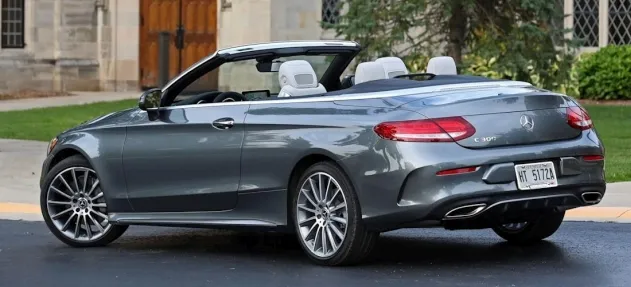
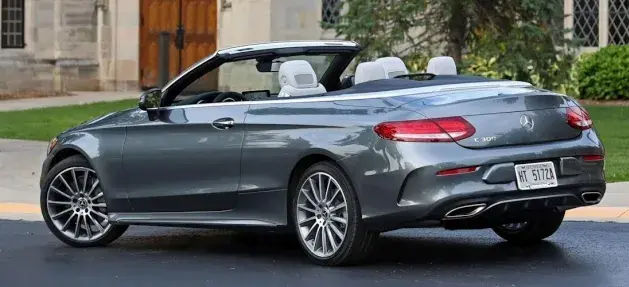
246

diff --git a/pic/ja_mb_img_clc.html b/pic/ja_mb_img_clc.html
@@ -458,7 +458,7 @@
 						<h4 class="displayNone">Cabriolet</h4>
 						<a href="full/clc/a205.jpg"><img loading="lazy" src="style/clc/a205.webp" alt="Mercedes,A205,Cクラス,cabriolet" width="1210" height="756"></a><br>
 						<a href="full/clc/a205_f.jpg"><img loading="lazy" src="style/clc/a205_f.webp" alt="メルセデス,A205,Cクラス,カブリオレ,フロント" width="575" height="287"></a>
-						<a href="full/clc/a205_r.jpg"><img loading="lazy" src="style/clc/a205_r.webp" alt="メルセデス,A205,Cクラス,カブリオレ,リヤ" width="631" height="287"></a>
+						<a href="full/clc/a205_r.jpg"><img loading="lazy" src="style/clc/a205_r.webp" alt="メルセデス,A205,Cクラス,カブリオレ,リヤ" width="629" height="287"></a>
 						<h5>ボディサイズ</h5>
 						<a href="full/clc/a205_a1.jpg"><img loading="lazy" src="style/clc/a205_a1.webp" alt="Mercedes,A205,Cクラス,cabriolet,寸法図" width="384" height="340"></a>
 						<a href="full/clc/a205_a2.jpg"><img loading="lazy" src="style/clc/a205_a2.webp" alt="Mercedes,A205,Cクラス,cabriolet,寸法図" width="823" height="340"></a>

diff --git a/pic/mb_img_clc.html b/pic/mb_img_clc.html
@@ -458,7 +458,7 @@
 						<h4 class="displayNone">Cabriolet</h4>
 						<a href="full/clc/a205.jpg"><img loading="lazy" src="style/clc/a205.webp" alt="Mercedes,A205,C-klasse,cabriolet" width="1210" height="756"></a><br>
 						<a href="full/clc/a205_f.jpg"><img loading="lazy" src="style/clc/a205_f.webp" alt="Mercedes,A205,C-klasse,cabriolet,Vorderansicht" width="575" height="287"></a>
-						<a href="full/clc/a205_r.jpg"><img loading="lazy" src="style/clc/a205_r.webp" alt="Mercedes,A205,C-klasse,cabriolet,Rückansicht" width="631" height="287"></a>
+						<a href="full/clc/a205_r.jpg"><img loading="lazy" src="style/clc/a205_r.webp" alt="Mercedes,A205,C-klasse,cabriolet,Rückansicht" width="629" height="287"></a>
 						<h5>Abmessungen</h5>
 						<a href="full/clc/a205_a1.jpg"><img loading="lazy" src="style/clc/a205_a1.webp" alt="Mercedes,A205,C-klasse,cabriolet,Maße" width="384" height="340"></a>
 						<a href="full/clc/a205_a2.jpg"><img loading="lazy" src="style/clc/a205_a2.webp" alt="Mercedes,A205,C-klasse,cabriolet,Maße" width="823" height="340"></a>

diff --git a/pic/en_mb_img_clc.html b/pic/en_mb_img_clc.html
@@ -458,7 +458,7 @@
 						<h4 class="displayNone">Cabriolet</h4>
 						<a href="full/clc/a205.jpg"><img loading="lazy" src="style/clc/a205.webp" alt="Mercedes,A205,C-class,cabriolet" width="1210" height="756"></a><br>
 						<a href="full/clc/a205_f.jpg"><img loading="lazy" src="style/clc/a205_f.webp" alt="Mercedes,A205,C-class,cabriolet,Front view" width="575" height="287"></a>
-						<a href="full/clc/a205_r.jpg"><img loading="lazy" src="style/clc/a205_r.webp" alt="Mercedes,A205,C-class,cabriolet,Rear view" width="631" height="287"></a>
+						<a href="full/clc/a205_r.jpg"><img loading="lazy" src="style/clc/a205_r.webp" alt="Mercedes,A205,C-class,cabriolet,Rear view" width="629" height="287"></a>
 						<h5>Dimensions</h5>
 						<a href="full/clc/a205_a1.jpg"><img loading="lazy" src="style/clc/a205_a1.webp" alt="Mercedes,A205,C-class,cabriolet,Dimensions" width="384" height="340"></a>
 						<a href="full/clc/a205_a2.jpg"><img loading="lazy" src="style/clc/a205_a2.webp" alt="Mercedes,A205,C-class,cabriolet,Dimensions" width="823" height="340"></a>
